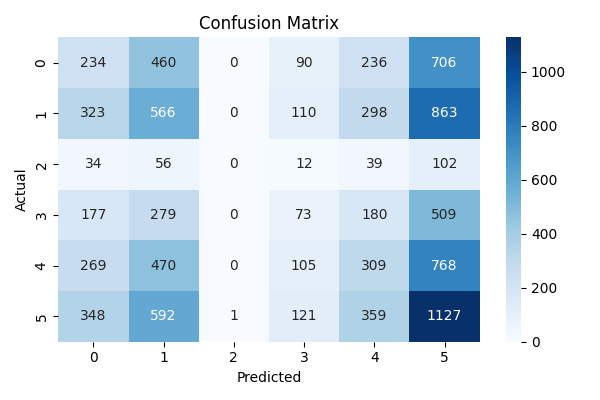
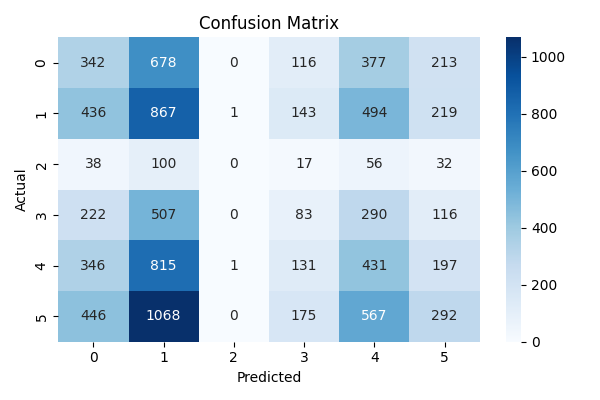
docs(sub2vec): Run xgboost classification with auxiliary probabilities (Use 50% time of testing graphs)

diff --git a/XGBoost.py b/XGBoost.py
@@ -56,7 +56,7 @@ if __name__ == '__main__':
     # Evaluate performance
     if args.aux_prob:
         # Load auxiliary probabilities
-        aux_prob = pd.read_csv("../graphgen/all_norm_avg_sims.csv", header=None)
+        aux_prob = pd.read_csv("../graphgen/graph_sims/time_slice_pct_0.5/test_norm_avg_sims_v1.csv", header=None)
         aux_prob = aux_prob.to_numpy()
         report, conf_matrix = model.evaluate_proba(X_test, y_test, aux_proba=aux_prob, prob_ratio=args.prob_ratio, aux_prob_ratio=args.aux_prob_ratio)
     else:

diff --git a/gen_subgraphs.py b/gen_subgraphs.py
@@ -17,6 +17,7 @@ from utils.graph_proc import GraphDataset
 
 def gen_split_subgraphs(dataset, time_slice_pct, output_path, split_set):
     dataset.set_split(split_set)
+    print(f"Generating {split_set} subgraphs with time slice percentage: {time_slice_pct} ...")
     dataset.time_slice_graphs(time_slice_pct)
 
     label_df = pd.DataFrame(columns=['subGraphID','label'])
